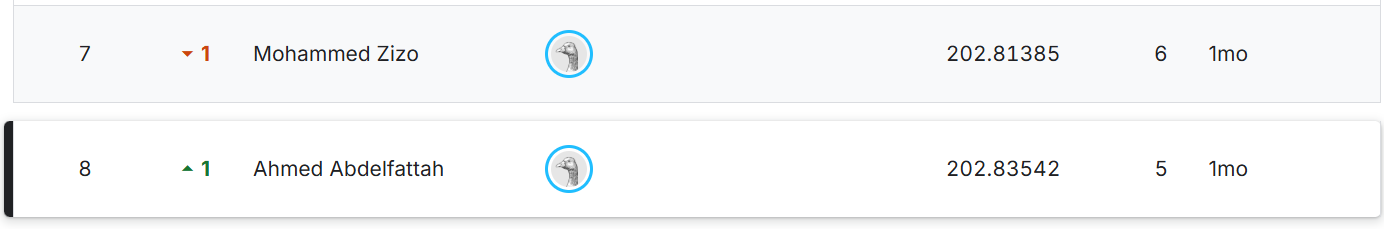
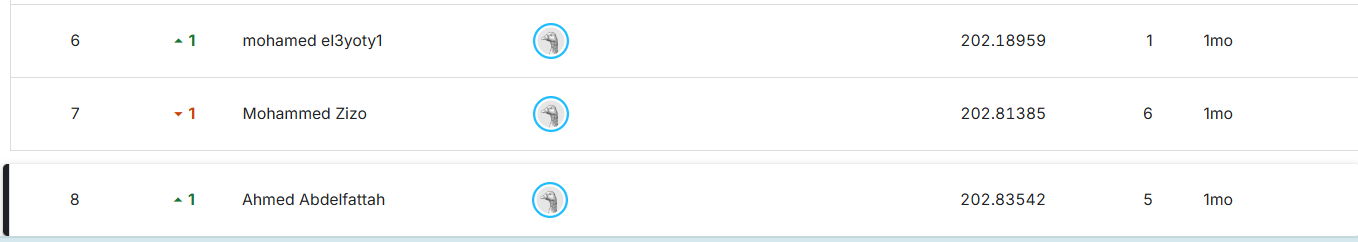
Remove comparison to 7th place ranking

diff --git a/README.md b/README.md
@@ -239,7 +239,7 @@ The notebook uses the CatBoost model to generate the competition predictions.
 | **Kaggle leaderboard RMSE** | **202.83542** |
 | **Leaderboard rank** | **8th** |
 
-The leaderboard score is only about 5.4 RMSE (roughly 2.8%) higher than the local validation score, which indicates that the validation setup gave a realistic estimate of performance on unseen data. The gap to 7th place on the leaderboard was only about 0.02 RMSE.
+The leaderboard score is only about 5.4 RMSE (roughly 2.8%) higher than the local validation score, which indicates that the validation setup gave a realistic estimate of performance on unseen data.
 
 ![Kaggle Leaderboard](Kaggle_Leaderboard.png)
 
